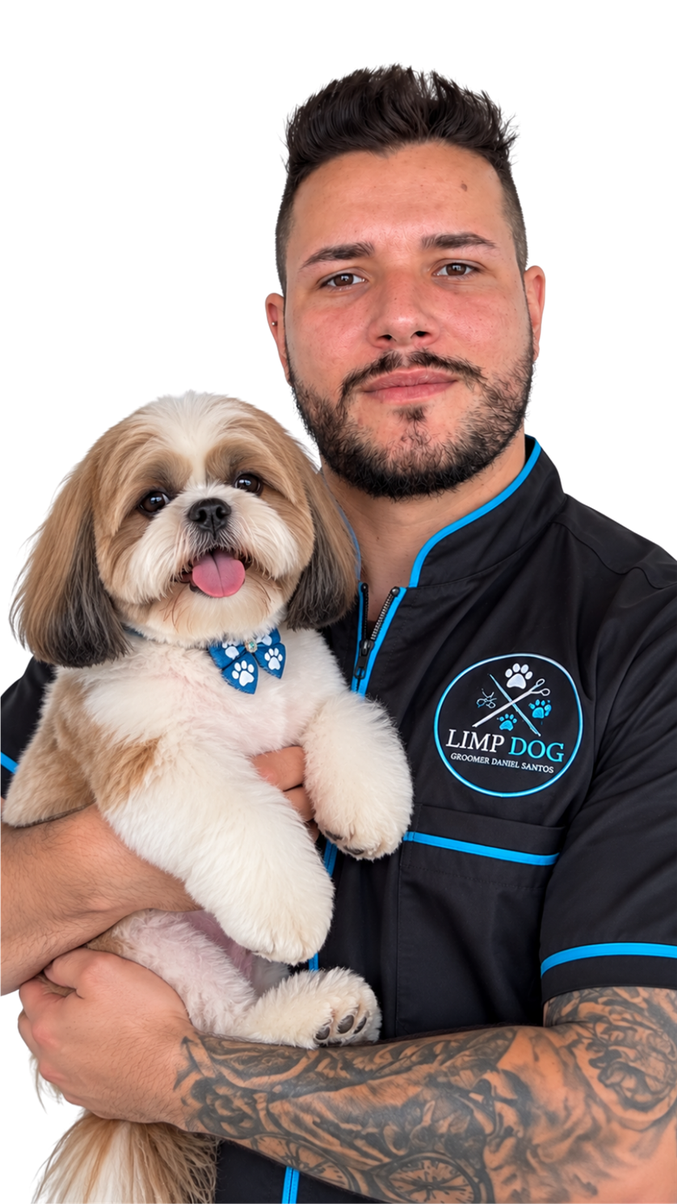
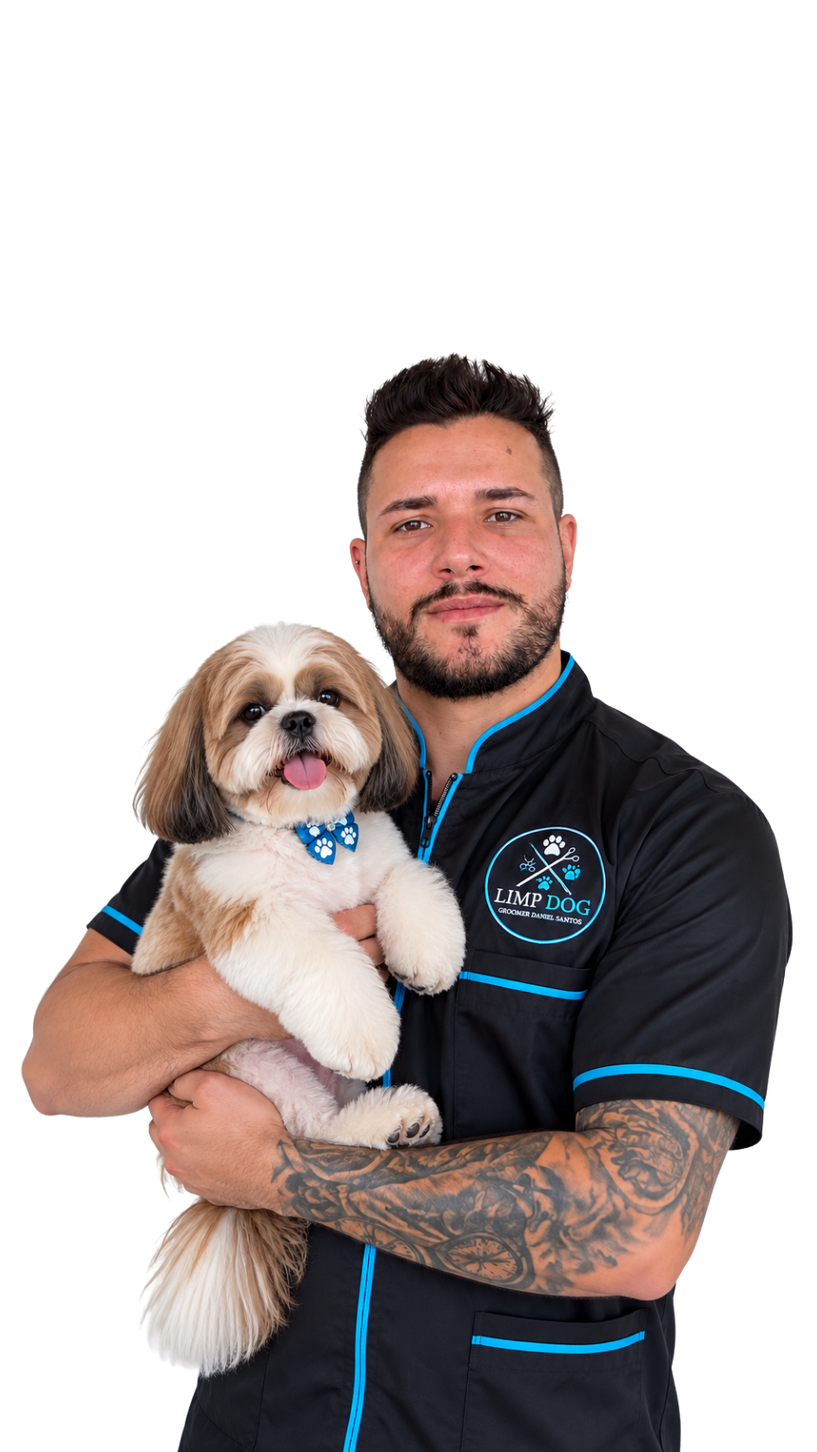
Atualiza imagens e responsividade da página

diff --git a/dist/index.html b/dist/index.html
@@ -13,7 +13,7 @@
     .skip{position:fixed;left:16px;top:-80px;z-index:100;background:var(--deep);color:#fff;padding:12px 18px;border-radius:12px}.skip:focus{top:16px}
     .site-header{position:fixed;inset:0 0 auto;z-index:50;background:rgba(255,255,255,.9);border-bottom:1px solid rgba(220,235,241,.8);backdrop-filter:blur(18px)}.nav{height:82px;display:flex;align-items:center;gap:28px}.brand{display:flex;align-items:center;gap:12px;margin-right:auto}.brand-logo{width:50px;height:50px;border-radius:14px;object-fit:cover;background:#fff;box-shadow:0 8px 24px rgba(11,77,120,.15)}.brand-text{display:grid;line-height:1}.brand-text strong{font-size:18px;letter-spacing:.04em}.brand-text small{font-size:10px;letter-spacing:.18em;color:var(--muted);margin-top:5px}.nav-links{display:flex;align-items:center;gap:23px;font-size:14px;font-weight:650}.nav-links a:not(.button){position:relative}.nav-links a:not(.button)::after{content:"";position:absolute;left:0;right:100%;bottom:-7px;height:2px;background:var(--blue);transition:.25s}.nav-links a:hover::after{right:0}.button{min-height:48px;display:inline-flex;align-items:center;justify-content:center;gap:10px;padding:0 22px;border-radius:999px;background:var(--deep);color:#fff;font-weight:750;box-shadow:0 10px 28px rgba(11,77,120,.22);transition:.25s}.button:hover{transform:translateY(-2px);background:#073f65;box-shadow:0 16px 36px rgba(11,77,120,.25)}.button.secondary{background:#fff;color:var(--deep);border:1px solid var(--line);box-shadow:none}.button.secondary:hover{border-color:#85bdd5;background:var(--ice)}.menu-btn{display:none;width:46px;height:46px;border:1px solid var(--line);background:#fff;border-radius:14px;cursor:pointer}.menu-btn span,.menu-btn::before,.menu-btn::after{content:"";display:block;width:20px;height:2px;margin:5px auto;background:var(--deep);transition:.25s}
     .hero{position:relative;overflow:hidden;padding:150px 0 84px;background:linear-gradient(128deg,#fff 0%,#fff 48%,#e9f8fd 100%)}.hero::before{content:"";position:absolute;width:480px;height:480px;border-radius:50%;right:-180px;top:15px;border:100px solid rgba(86,190,228,.1)}.hero-grid{display:grid;grid-template-columns:1.03fr .97fr;align-items:center;gap:70px}.eyebrow{display:flex;align-items:center;gap:10px;text-transform:uppercase;letter-spacing:.16em;color:var(--blue);font-size:12px;font-weight:800}.eyebrow::before{content:"";width:36px;height:2px;background:var(--blue)}h1,h2{font-family:Georgia,"Times New Roman",serif;letter-spacing:-.045em;line-height:1.04;margin:0}h1{font-size:clamp(48px,5.6vw,78px);max-width:740px;margin-top:22px}h1 em{font-style:normal;color:var(--blue)}.lead{font-size:18px;color:var(--muted);max-width:620px;margin:26px 0 31px;line-height:1.75}.hero-actions{display:flex;gap:12px;flex-wrap:wrap}.proof{display:flex;align-items:center;gap:16px;margin-top:34px;color:var(--muted);font-size:14px}.proof strong{color:var(--ink);font-size:16px}.stars{color:#e4a323;letter-spacing:2px}.proof-line{width:1px;height:32px;background:var(--line)}
-    .hero-art{position:relative;min-height:590px}.shape-main{position:absolute;inset:40px 10px 10px 40px;border-radius:46% 54% 35% 65% / 42% 38% 62% 58%;background:linear-gradient(145deg,#0d78ae,#0b4d78);box-shadow:var(--shadow)}.shape-soft{position:absolute;width:230px;height:230px;border-radius:50%;right:-5px;top:0;background:#86d9f3;opacity:.58}.photo-slot{position:absolute;inset:16px 18px 8px 18px;border-radius:44% 56% 36% 64% / 40% 38% 62% 60%;display:flex;align-items:flex-end;justify-content:center;overflow:hidden}.hero-person{width:100%;height:100%;object-fit:contain;object-position:center bottom;filter:drop-shadow(0 24px 28px rgba(4,35,56,.24))}.care-chip{position:absolute;z-index:3;left:0;bottom:42px;background:#fff;border:1px solid var(--line);border-radius:20px;padding:16px 20px;box-shadow:var(--shadow);display:flex;align-items:center;gap:12px;font-size:13px}.care-chip b{display:block;font-size:15px}.care-icon{width:42px;height:42px;border-radius:14px;background:var(--sky);display:grid;place-items:center;color:var(--deep)}
+    .hero-art{position:relative;min-height:590px}.shape-main{position:absolute;inset:40px 10px 10px 40px;border-radius:46% 54% 35% 65% / 42% 38% 62% 58%;background:linear-gradient(145deg,#0d78ae,#0b4d78);box-shadow:var(--shadow)}.shape-soft{position:absolute;width:230px;height:230px;border-radius:50%;right:-5px;top:0;background:#86d9f3;opacity:.58}.photo-slot{position:absolute;inset:16px 18px 8px 18px;border-radius:44% 56% 36% 64% / 40% 38% 62% 60%;display:flex;align-items:flex-end;justify-content:center;overflow:hidden}.hero-person{width:100%;height:100%;object-fit:contain;object-position:center bottom;transform:scale(1.1);transform-origin:center bottom;filter:drop-shadow(0 24px 28px rgba(4,35,56,.24))}.care-chip{position:absolute;z-index:3;left:0;bottom:42px;background:#fff;border:1px solid var(--line);border-radius:20px;padding:16px 20px;box-shadow:var(--shadow);display:flex;align-items:center;gap:12px;font-size:13px}.care-chip b{display:block;font-size:15px}.care-icon{width:42px;height:42px;border-radius:14px;background:var(--sky);display:grid;place-items:center;color:var(--deep)}
     .section{padding:112px 0}.section-soft{background:var(--ice)}.section-head{display:flex;justify-content:space-between;gap:40px;align-items:flex-end;margin-bottom:50px}.section-head>div{max-width:720px}.section-kicker{text-transform:uppercase;letter-spacing:.17em;color:var(--blue);font-size:12px;font-weight:850;margin-bottom:14px}.section h2{font-size:clamp(38px,4.6vw,60px);max-width:820px}.section-intro{color:var(--muted);font-size:17px;max-width:650px;margin:22px 0 0}.about-grid{display:grid;grid-template-columns:1.15fr .85fr;gap:70px;align-items:center}.about-copy p{font-size:19px;color:var(--muted);margin:24px 0 36px}.traits{display:grid;grid-template-columns:repeat(3,1fr);gap:12px}.trait{padding:22px;border:1px solid var(--line);border-radius:20px;background:#fff}.trait b{display:block;color:var(--deep);font-size:20px;margin-bottom:4px}.about-panel{position:relative;background:var(--deep);color:#fff;border-radius:var(--radius);padding:42px;min-height:420px;overflow:hidden;display:flex;flex-direction:column;justify-content:flex-end;box-shadow:var(--shadow)}.about-panel>img{position:absolute;inset:14px;width:calc(100% - 28px);height:calc(100% - 28px);object-fit:cover;object-position:center;border-radius:20px}.about-panel::before{content:"";position:absolute;z-index:1;inset:14px;border-radius:20px;background:linear-gradient(180deg,rgba(7,31,46,0) 38%,rgba(7,31,46,.92) 100%)}.about-panel .big{font:700 clamp(52px,7vw,78px)/1 Georgia,serif;position:relative;z-index:2}.about-panel p{font-size:17px;max-width:330px;margin:10px 0 0;position:relative;z-index:2;color:#e8f9fd}
     .services-grid{display:grid;grid-template-columns:repeat(3,1fr);gap:18px}.service-card{position:relative;background:#fff;border:1px solid var(--line);border-radius:24px;padding:30px;min-height:250px;overflow:hidden;transition:.3s}.service-card:hover{transform:translateY(-7px);box-shadow:var(--shadow);border-color:transparent}.service-num{display:block;color:#72bcd8;font:700 42px/1 Georgia,serif;margin-bottom:38px}.service-card h3{font-size:18px;letter-spacing:.03em;margin:0 0 12px}.service-card p{color:var(--muted);margin:0}.services-cta{display:flex;justify-content:center;margin-top:38px}
     .pets-section{padding:105px 0;background:#fff}.pets-head{display:flex;justify-content:space-between;align-items:flex-end;gap:40px;margin-bottom:42px}.pets-head p{color:var(--muted);max-width:430px;margin:0}.pet-grid{display:grid;grid-template-columns:repeat(12,1fr);gap:16px}.pet-card{position:relative;overflow:hidden;border-radius:26px;background:var(--sky);box-shadow:0 14px 45px rgba(11,77,120,.1)}.pet-card:nth-child(1){grid-column:span 7;height:380px}.pet-card:nth-child(2){grid-column:span 5;height:380px}.pet-card:nth-child(n+3){grid-column:span 3;height:270px}.pet-card img{width:100%;height:100%;object-fit:cover;transition:transform .5s ease}.pet-card:hover img{transform:scale(1.035)}.pet-card::after{content:"";position:absolute;inset:auto 0 0;height:30%;background:linear-gradient(transparent,rgba(4,35,56,.13));pointer-events:none}
@@ -26,7 +26,17 @@
     .reveal{opacity:0;transform:translateY(20px);transition:opacity .65s ease,transform .65s ease}.reveal.visible{opacity:1;transform:none}
     @media(max-width:980px){.nav-links{position:fixed;inset:82px 20px auto;background:#fff;border:1px solid var(--line);border-radius:22px;padding:18px;box-shadow:var(--shadow);display:grid;gap:4px;opacity:0;pointer-events:none;transform:translateY(-12px);transition:.25s}.nav-links.open{opacity:1;pointer-events:auto;transform:none}.nav-links a{padding:10px}.nav-links .button{margin-top:8px}.menu-btn{display:block}.hero-grid{grid-template-columns:1fr;gap:34px}.hero-art{min-height:500px;max-width:620px;width:100%;margin:auto}.hero{padding-top:125px}.about-grid,.pro-grid{grid-template-columns:1fr;gap:45px}.about-panel{min-height:460px;max-width:620px;width:100%;margin:auto}.pro-art{min-height:520px;max-width:620px;width:100%;margin:auto;order:2}.services-grid{grid-template-columns:repeat(2,1fr)}.pets-head{display:block}.pets-head p{margin-top:18px}.pet-card:nth-child(n){grid-column:span 6;height:320px}.unique-grid{grid-template-columns:repeat(2,1fr)}.taxi-card{grid-template-columns:1fr}.taxi-visual{min-height:420px}.reviews-grid{grid-template-columns:1fr}.contact-grid{grid-template-columns:1fr 1fr}.contact-grid>div:first-child{grid-column:1/-1}}
     @media(max-width:620px){:root{--wrap:min(100% - 28px,1180px)}.nav{height:72px}.brand-logo{width:44px;height:44px}.brand-text small{display:none}.nav-links{inset:72px 14px auto}.hero{padding:112px 0 56px}.hero-grid{gap:25px}h1{font-size:clamp(42px,13vw,60px)}.lead{font-size:16px;margin:20px 0 26px}.hero-actions{display:grid}.hero-actions .button{width:100%}.proof{align-items:flex-start}.proof-line{display:none}.proof{display:grid;gap:4px}.hero-art{min-height:430px}.shape-main{inset:30px 6px 8px 20px}.photo-slot{inset:5px 0 5px}.shape-soft{width:160px;height:160px}.care-chip{bottom:12px;padding:12px 15px}.care-icon{width:36px;height:36px}.section{padding:78px 0}.section-head{display:block;margin-bottom:34px}.section h2{font-size:40px}.about-copy p,.section-intro,.pro-copy p,.taxi-copy p{font-size:16px}.traits,.services-grid,.unique-grid{grid-template-columns:1fr}.trait{padding:18px}.about-panel{padding:30px;min-height:390px}.about-panel .big{font-size:48px}.about-panel p{font-size:15px}.service-card{min-height:auto;padding:25px}.service-num{margin-bottom:24px}.pets-section{padding:75px 0}.pet-grid{gap:12px}.pet-card:nth-child(n){grid-column:span 12;height:320px}.pro-art{min-height:445px}.pro-bg{inset:20px 8px 0 0}.pro-photo{inset:12px 10px 0 0}.pro-orbit{width:100px;height:100px;border-width:25px}.unique-wrap{padding:48px 22px;border-radius:28px}.unique-grid{margin-top:35px}.unique-item{min-height:auto}.unique-item span{margin-bottom:18px}.taxi-copy{padding:36px 24px}.taxi-visual{min-height:390px}.taxi-photo{width:calc(100% - 28px);height:calc(100% - 28px)}.google-score{margin-top:24px;display:inline-flex}.review blockquote{font-size:20px}.cta-box{border-radius:28px;padding:65px 20px}.contact-grid{grid-template-columns:1fr;gap:36px}.contact-grid>div:first-child{grid-column:auto}.footer-bottom{display:block}.footer-bottom span{display:block;margin-top:5px}.wa-float{width:54px;height:54px;right:16px;bottom:16px}}
+    @media(max-width:620px){
+      .hero-grid.wrap{width:calc(100% - 28px);max-width:1180px;grid-template-columns:minmax(0,1fr)}
+      .hero-grid>*{min-width:0;max-width:100%}
+      .hero h1{font-size:clamp(34px,10.8vw,60px);max-width:100%;overflow-wrap:anywhere}
+      .hero .lead,.hero-actions,.hero-art{min-width:0;max-width:100%}
+      .hero-actions .button{min-width:0;max-width:100%;white-space:normal;text-align:center}
+      .hero-person{max-width:100%}
+      .hero .shape-soft{right:0}
+    }
     @media(prefers-reduced-motion:reduce){*{scroll-behavior:auto!important;transition:none!important}}
+
   </style>
 </head>
 <body>
@@ -53,7 +63,7 @@
         </div>
         <div class="hero-art" aria-label="Daniel Santos com um cachorro em uma composição da Limp Dog">
           <div class="shape-soft"></div><div class="shape-main"></div>
-          <div class="photo-slot"><img class="hero-person" src="assets/daniel-com-pet.png" width="780" height="1386" alt="Daniel Santos, profissional da Limp Dog, segurando um cachorro" fetchpriority="high" decoding="async"></div>
+          <div class="photo-slot"><img class="hero-person" src="assets/daniel-com-pet.png" width="941" height="1672" alt="Daniel Santos, profissional da Limp Dog, segurando um cachorro" fetchpriority="high" decoding="async"></div>
           <div class="care-chip"><span class="care-icon">♡</span><span><b>Cuidado de verdade</b>Em cada detalhe</span></div>
         </div>
       </div>
@@ -98,7 +108,7 @@
     </section>
     <section class="section professional" id="profissional">
       <div class="pro-grid wrap">
-        <div class="pro-art reveal"><div class="pro-bg"></div><div class="pro-orbit"></div><div class="pro-photo"><img src="assets/daniel-santos.png" width="700" height="1244" alt="Daniel Santos, tosador da Limp Dog" loading="lazy" decoding="async"></div></div>
+        <div class="pro-art reveal"><div class="pro-bg"></div><div class="pro-orbit"></div><div class="pro-photo"><img src="assets/daniel-santos.png" width="941" height="1672" alt="Daniel Santos, tosador da Limp Dog" loading="lazy" decoding="async"></div></div>
         <div class="pro-copy reveal"><div class="section-kicker">Quem cuida do seu pet</div><h2>Daniel Santos</h2><span class="role">Tosador | Limp Dog</span><p>Daniel Santos é o profissional responsável pelos serviços de tosa da Limp Dog. Seu trabalho é voltado ao cuidado individual de cada pet, considerando características como raça, porte, tipo de pelagem e o estilo de tosa desejado.</p><div class="signature"><span class="signature-mark">DS</span><span><b>Daniel Santos</b><span>Profissional responsável pelos serviços de tosa</span></span></div></div>
       </div>
     </section>

diff --git a/src/styles.css b/src/styles.css
@@ -3,7 +3,7 @@
     .skip{position:fixed;left:16px;top:-80px;z-index:100;background:var(--deep);color:#fff;padding:12px 18px;border-radius:12px}.skip:focus{top:16px}
     .site-header{position:fixed;inset:0 0 auto;z-index:50;background:rgba(255,255,255,.9);border-bottom:1px solid rgba(220,235,241,.8);backdrop-filter:blur(18px)}.nav{height:82px;display:flex;align-items:center;gap:28px}.brand{display:flex;align-items:center;gap:12px;margin-right:auto}.brand-logo{width:50px;height:50px;border-radius:14px;object-fit:cover;background:#fff;box-shadow:0 8px 24px rgba(11,77,120,.15)}.brand-text{display:grid;line-height:1}.brand-text strong{font-size:18px;letter-spacing:.04em}.brand-text small{font-size:10px;letter-spacing:.18em;color:var(--muted);margin-top:5px}.nav-links{display:flex;align-items:center;gap:23px;font-size:14px;font-weight:650}.nav-links a:not(.button){position:relative}.nav-links a:not(.button)::after{content:"";position:absolute;left:0;right:100%;bottom:-7px;height:2px;background:var(--blue);transition:.25s}.nav-links a:hover::after{right:0}.button{min-height:48px;display:inline-flex;align-items:center;justify-content:center;gap:10px;padding:0 22px;border-radius:999px;background:var(--deep);color:#fff;font-weight:750;box-shadow:0 10px 28px rgba(11,77,120,.22);transition:.25s}.button:hover{transform:translateY(-2px);background:#073f65;box-shadow:0 16px 36px rgba(11,77,120,.25)}.button.secondary{background:#fff;color:var(--deep);border:1px solid var(--line);box-shadow:none}.button.secondary:hover{border-color:#85bdd5;background:var(--ice)}.menu-btn{display:none;width:46px;height:46px;border:1px solid var(--line);background:#fff;border-radius:14px;cursor:pointer}.menu-btn span,.menu-btn::before,.menu-btn::after{content:"";display:block;width:20px;height:2px;margin:5px auto;background:var(--deep);transition:.25s}
     .hero{position:relative;overflow:hidden;padding:150px 0 84px;background:linear-gradient(128deg,#fff 0%,#fff 48%,#e9f8fd 100%)}.hero::before{content:"";position:absolute;width:480px;height:480px;border-radius:50%;right:-180px;top:15px;border:100px solid rgba(86,190,228,.1)}.hero-grid{display:grid;grid-template-columns:1.03fr .97fr;align-items:center;gap:70px}.eyebrow{display:flex;align-items:center;gap:10px;text-transform:uppercase;letter-spacing:.16em;color:var(--blue);font-size:12px;font-weight:800}.eyebrow::before{content:"";width:36px;height:2px;background:var(--blue)}h1,h2{font-family:Georgia,"Times New Roman",serif;letter-spacing:-.045em;line-height:1.04;margin:0}h1{font-size:clamp(48px,5.6vw,78px);max-width:740px;margin-top:22px}h1 em{font-style:normal;color:var(--blue)}.lead{font-size:18px;color:var(--muted);max-width:620px;margin:26px 0 31px;line-height:1.75}.hero-actions{display:flex;gap:12px;flex-wrap:wrap}.proof{display:flex;align-items:center;gap:16px;margin-top:34px;color:var(--muted);font-size:14px}.proof strong{color:var(--ink);font-size:16px}.stars{color:#e4a323;letter-spacing:2px}.proof-line{width:1px;height:32px;background:var(--line)}
-    .hero-art{position:relative;min-height:590px}.shape-main{position:absolute;inset:40px 10px 10px 40px;border-radius:46% 54% 35% 65% / 42% 38% 62% 58%;background:linear-gradient(145deg,#0d78ae,#0b4d78);box-shadow:var(--shadow)}.shape-soft{position:absolute;width:230px;height:230px;border-radius:50%;right:-5px;top:0;background:#86d9f3;opacity:.58}.photo-slot{position:absolute;inset:16px 18px 8px 18px;border-radius:44% 56% 36% 64% / 40% 38% 62% 60%;display:flex;align-items:flex-end;justify-content:center;overflow:hidden}.hero-person{width:100%;height:100%;object-fit:contain;object-position:center bottom;filter:drop-shadow(0 24px 28px rgba(4,35,56,.24))}.care-chip{position:absolute;z-index:3;left:0;bottom:42px;background:#fff;border:1px solid var(--line);border-radius:20px;padding:16px 20px;box-shadow:var(--shadow);display:flex;align-items:center;gap:12px;font-size:13px}.care-chip b{display:block;font-size:15px}.care-icon{width:42px;height:42px;border-radius:14px;background:var(--sky);display:grid;place-items:center;color:var(--deep)}
+    .hero-art{position:relative;min-height:590px}.shape-main{position:absolute;inset:40px 10px 10px 40px;border-radius:46% 54% 35% 65% / 42% 38% 62% 58%;background:linear-gradient(145deg,#0d78ae,#0b4d78);box-shadow:var(--shadow)}.shape-soft{position:absolute;width:230px;height:230px;border-radius:50%;right:-5px;top:0;background:#86d9f3;opacity:.58}.photo-slot{position:absolute;inset:16px 18px 8px 18px;border-radius:44% 56% 36% 64% / 40% 38% 62% 60%;display:flex;align-items:flex-end;justify-content:center;overflow:hidden}.hero-person{width:100%;height:100%;object-fit:contain;object-position:center bottom;transform:scale(1.1);transform-origin:center bottom;filter:drop-shadow(0 24px 28px rgba(4,35,56,.24))}.care-chip{position:absolute;z-index:3;left:0;bottom:42px;background:#fff;border:1px solid var(--line);border-radius:20px;padding:16px 20px;box-shadow:var(--shadow);display:flex;align-items:center;gap:12px;font-size:13px}.care-chip b{display:block;font-size:15px}.care-icon{width:42px;height:42px;border-radius:14px;background:var(--sky);display:grid;place-items:center;color:var(--deep)}
     .section{padding:112px 0}.section-soft{background:var(--ice)}.section-head{display:flex;justify-content:space-between;gap:40px;align-items:flex-end;margin-bottom:50px}.section-head>div{max-width:720px}.section-kicker{text-transform:uppercase;letter-spacing:.17em;color:var(--blue);font-size:12px;font-weight:850;margin-bottom:14px}.section h2{font-size:clamp(38px,4.6vw,60px);max-width:820px}.section-intro{color:var(--muted);font-size:17px;max-width:650px;margin:22px 0 0}.about-grid{display:grid;grid-template-columns:1.15fr .85fr;gap:70px;align-items:center}.about-copy p{font-size:19px;color:var(--muted);margin:24px 0 36px}.traits{display:grid;grid-template-columns:repeat(3,1fr);gap:12px}.trait{padding:22px;border:1px solid var(--line);border-radius:20px;background:#fff}.trait b{display:block;color:var(--deep);font-size:20px;margin-bottom:4px}.about-panel{position:relative;background:var(--deep);color:#fff;border-radius:var(--radius);padding:42px;min-height:420px;overflow:hidden;display:flex;flex-direction:column;justify-content:flex-end;box-shadow:var(--shadow)}.about-panel>img{position:absolute;inset:14px;width:calc(100% - 28px);height:calc(100% - 28px);object-fit:cover;object-position:center;border-radius:20px}.about-panel::before{content:"";position:absolute;z-index:1;inset:14px;border-radius:20px;background:linear-gradient(180deg,rgba(7,31,46,0) 38%,rgba(7,31,46,.92) 100%)}.about-panel .big{font:700 clamp(52px,7vw,78px)/1 Georgia,serif;position:relative;z-index:2}.about-panel p{font-size:17px;max-width:330px;margin:10px 0 0;position:relative;z-index:2;color:#e8f9fd}
     .services-grid{display:grid;grid-template-columns:repeat(3,1fr);gap:18px}.service-card{position:relative;background:#fff;border:1px solid var(--line);border-radius:24px;padding:30px;min-height:250px;overflow:hidden;transition:.3s}.service-card:hover{transform:translateY(-7px);box-shadow:var(--shadow);border-color:transparent}.service-num{display:block;color:#72bcd8;font:700 42px/1 Georgia,serif;margin-bottom:38px}.service-card h3{font-size:18px;letter-spacing:.03em;margin:0 0 12px}.service-card p{color:var(--muted);margin:0}.services-cta{display:flex;justify-content:center;margin-top:38px}
     .pets-section{padding:105px 0;background:#fff}.pets-head{display:flex;justify-content:space-between;align-items:flex-end;gap:40px;margin-bottom:42px}.pets-head p{color:var(--muted);max-width:430px;margin:0}.pet-grid{display:grid;grid-template-columns:repeat(12,1fr);gap:16px}.pet-card{position:relative;overflow:hidden;border-radius:26px;background:var(--sky);box-shadow:0 14px 45px rgba(11,77,120,.1)}.pet-card:nth-child(1){grid-column:span 7;height:380px}.pet-card:nth-child(2){grid-column:span 5;height:380px}.pet-card:nth-child(n+3){grid-column:span 3;height:270px}.pet-card img{width:100%;height:100%;object-fit:cover;transition:transform .5s ease}.pet-card:hover img{transform:scale(1.035)}.pet-card::after{content:"";position:absolute;inset:auto 0 0;height:30%;background:linear-gradient(transparent,rgba(4,35,56,.13));pointer-events:none}
@@ -16,4 +16,13 @@
     .reveal{opacity:0;transform:translateY(20px);transition:opacity .65s ease,transform .65s ease}.reveal.visible{opacity:1;transform:none}
     @media(max-width:980px){.nav-links{position:fixed;inset:82px 20px auto;background:#fff;border:1px solid var(--line);border-radius:22px;padding:18px;box-shadow:var(--shadow);display:grid;gap:4px;opacity:0;pointer-events:none;transform:translateY(-12px);transition:.25s}.nav-links.open{opacity:1;pointer-events:auto;transform:none}.nav-links a{padding:10px}.nav-links .button{margin-top:8px}.menu-btn{display:block}.hero-grid{grid-template-columns:1fr;gap:34px}.hero-art{min-height:500px;max-width:620px;width:100%;margin:auto}.hero{padding-top:125px}.about-grid,.pro-grid{grid-template-columns:1fr;gap:45px}.about-panel{min-height:460px;max-width:620px;width:100%;margin:auto}.pro-art{min-height:520px;max-width:620px;width:100%;margin:auto;order:2}.services-grid{grid-template-columns:repeat(2,1fr)}.pets-head{display:block}.pets-head p{margin-top:18px}.pet-card:nth-child(n){grid-column:span 6;height:320px}.unique-grid{grid-template-columns:repeat(2,1fr)}.taxi-card{grid-template-columns:1fr}.taxi-visual{min-height:420px}.reviews-grid{grid-template-columns:1fr}.contact-grid{grid-template-columns:1fr 1fr}.contact-grid>div:first-child{grid-column:1/-1}}
     @media(max-width:620px){:root{--wrap:min(100% - 28px,1180px)}.nav{height:72px}.brand-logo{width:44px;height:44px}.brand-text small{display:none}.nav-links{inset:72px 14px auto}.hero{padding:112px 0 56px}.hero-grid{gap:25px}h1{font-size:clamp(42px,13vw,60px)}.lead{font-size:16px;margin:20px 0 26px}.hero-actions{display:grid}.hero-actions .button{width:100%}.proof{align-items:flex-start}.proof-line{display:none}.proof{display:grid;gap:4px}.hero-art{min-height:430px}.shape-main{inset:30px 6px 8px 20px}.photo-slot{inset:5px 0 5px}.shape-soft{width:160px;height:160px}.care-chip{bottom:12px;padding:12px 15px}.care-icon{width:36px;height:36px}.section{padding:78px 0}.section-head{display:block;margin-bottom:34px}.section h2{font-size:40px}.about-copy p,.section-intro,.pro-copy p,.taxi-copy p{font-size:16px}.traits,.services-grid,.unique-grid{grid-template-columns:1fr}.trait{padding:18px}.about-panel{padding:30px;min-height:390px}.about-panel .big{font-size:48px}.about-panel p{font-size:15px}.service-card{min-height:auto;padding:25px}.service-num{margin-bottom:24px}.pets-section{padding:75px 0}.pet-grid{gap:12px}.pet-card:nth-child(n){grid-column:span 12;height:320px}.pro-art{min-height:445px}.pro-bg{inset:20px 8px 0 0}.pro-photo{inset:12px 10px 0 0}.pro-orbit{width:100px;height:100px;border-width:25px}.unique-wrap{padding:48px 22px;border-radius:28px}.unique-grid{margin-top:35px}.unique-item{min-height:auto}.unique-item span{margin-bottom:18px}.taxi-copy{padding:36px 24px}.taxi-visual{min-height:390px}.taxi-photo{width:calc(100% - 28px);height:calc(100% - 28px)}.google-score{margin-top:24px;display:inline-flex}.review blockquote{font-size:20px}.cta-box{border-radius:28px;padding:65px 20px}.contact-grid{grid-template-columns:1fr;gap:36px}.contact-grid>div:first-child{grid-column:auto}.footer-bottom{display:block}.footer-bottom span{display:block;margin-top:5px}.wa-float{width:54px;height:54px;right:16px;bottom:16px}}
+    @media(max-width:620px){
+      .hero-grid.wrap{width:calc(100% - 28px);max-width:1180px;grid-template-columns:minmax(0,1fr)}
+      .hero-grid>*{min-width:0;max-width:100%}
+      .hero h1{font-size:clamp(34px,10.8vw,60px);max-width:100%;overflow-wrap:anywhere}
+      .hero .lead,.hero-actions,.hero-art{min-width:0;max-width:100%}
+      .hero-actions .button{min-width:0;max-width:100%;white-space:normal;text-align:center}
+      .hero-person{max-width:100%}
+      .hero .shape-soft{right:0}
+    }
     @media(prefers-reduced-motion:reduce){*{scroll-behavior:auto!important;transition:none!important}}

diff --git a/src/index.html b/src/index.html
@@ -33,7 +33,7 @@
         </div>
         <div class="hero-art" aria-label="Daniel Santos com um cachorro em uma composição da Limp Dog">
           <div class="shape-soft"></div><div class="shape-main"></div>
-          <div class="photo-slot"><img class="hero-person" src="assets/daniel-com-pet.png" width="780" height="1386" alt="Daniel Santos, profissional da Limp Dog, segurando um cachorro" fetchpriority="high" decoding="async"></div>
+          <div class="photo-slot"><img class="hero-person" src="assets/daniel-com-pet.png" width="941" height="1672" alt="Daniel Santos, profissional da Limp Dog, segurando um cachorro" fetchpriority="high" decoding="async"></div>
           <div class="care-chip"><span class="care-icon">♡</span><span><b>Cuidado de verdade</b>Em cada detalhe</span></div>
         </div>
       </div>
@@ -78,7 +78,7 @@
     </section>
     <section class="section professional" id="profissional">
       <div class="pro-grid wrap">
-        <div class="pro-art reveal"><div class="pro-bg"></div><div class="pro-orbit"></div><div class="pro-photo"><img src="assets/daniel-santos.png" width="700" height="1244" alt="Daniel Santos, tosador da Limp Dog" loading="lazy" decoding="async"></div></div>
+        <div class="pro-art reveal"><div class="pro-bg"></div><div class="pro-orbit"></div><div class="pro-photo"><img src="assets/daniel-santos.png" width="941" height="1672" alt="Daniel Santos, tosador da Limp Dog" loading="lazy" decoding="async"></div></div>
         <div class="pro-copy reveal"><div class="section-kicker">Quem cuida do seu pet</div><h2>Daniel Santos</h2><span class="role">Tosador | Limp Dog</span><p>Daniel Santos é o profissional responsável pelos serviços de tosa da Limp Dog. Seu trabalho é voltado ao cuidado individual de cada pet, considerando características como raça, porte, tipo de pelagem e o estilo de tosa desejado.</p><div class="signature"><span class="signature-mark">DS</span><span><b>Daniel Santos</b><span>Profissional responsável pelos serviços de tosa</span></span></div></div>
       </div>
     </section>
